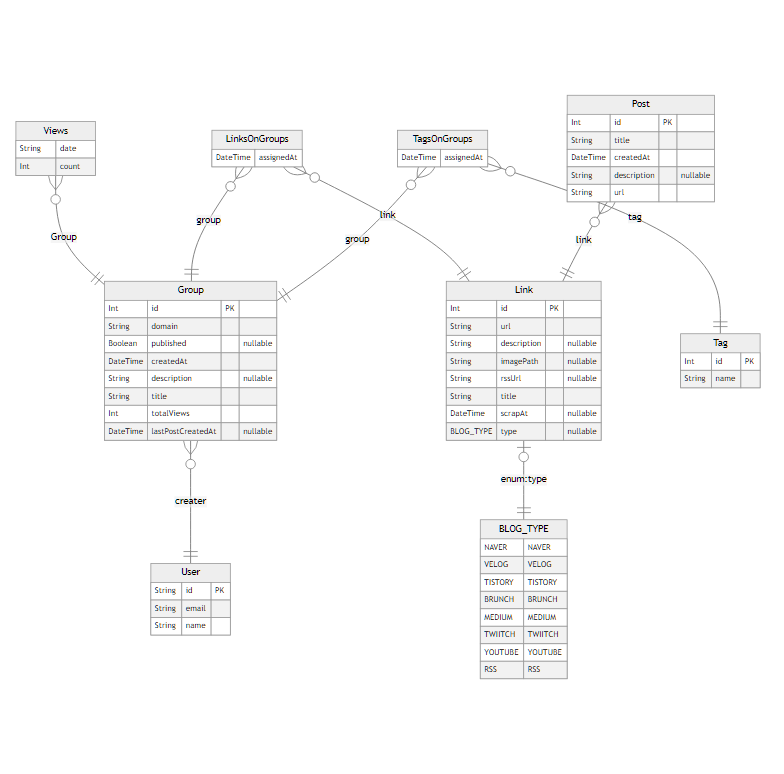
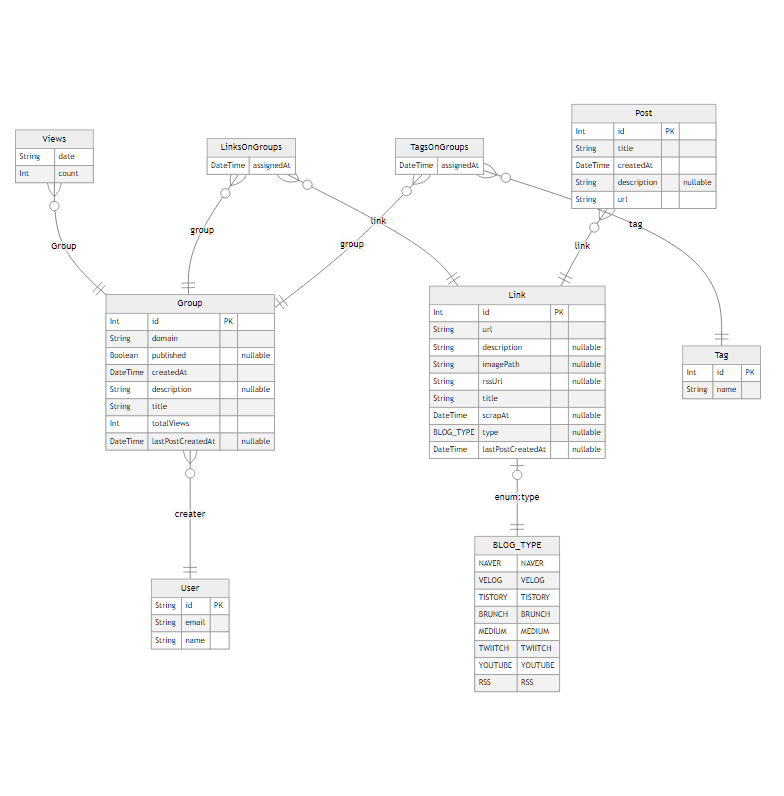
최근작성일시 그룹, 링크 각각 넣기

diff --git a/client/src/components/Menu/HeaderItem.vue b/client/src/components/Menu/HeaderItem.vue
@@ -1,11 +1,12 @@
 <script setup lang="ts">
-import { ref, toRaw } from 'vue';
+import { ref, toRefs } from 'vue';
 import { useRouter, useRoute } from 'vue-router';
 import { useSubpageStore } from '@/stores/subpage';
 import { usePostStore } from '@/stores/post';
 import { useGroupStore } from '@/stores/group';
 import { storeToRefs } from 'pinia';
 import { useQuasar } from 'quasar';
+import GroupAPI from '@/api/groupApi';
 
 const postStore = usePostStore();
 
@@ -36,7 +37,7 @@ interface HeaderOption {
 
 const props = defineProps<HeaderOption>();
 const rotate = ref(false);
-const { logo, editor, setting } = toRaw(props);
+const { logo, editor, setting } = toRefs(props);
 const $q = useQuasar();
 
 const reload = () => {
@@ -55,7 +56,7 @@ const _openSettingMain = () => {
   openSettingMain();
 };
 const scrapPostsAndAction = async () => {
-  const links = currentGroup.value.links;
+  const { id: groupId, links } = currentGroup.value;
   if (!links) return;
 
   if (scrapLoading.value) {
@@ -67,6 +68,7 @@ const scrapPostsAndAction = async () => {
 
   initPostData();
   await scrapPosts(links, false);
+  await GroupAPI.updateLastPostCreateAt(groupId);
   updateLinksMinScrapAt();
   $q.notify({ type: 'positive', message: 'Refresh Competed!' });
 

diff --git a/src/group/group.controller.ts b/src/group/group.controller.ts
@@ -100,33 +100,7 @@ export class GroupController {
   }
 
   @Patch('last-post-create-at')
-  async updateLastPostCreateAt(
-    @Body('linksDto')
-    updateLastPostCreateAt: { linkId?: number; lastPostCreatdeAt?: Date }[],
-  ) {
-    //링크별 최신포스트시간을 보내주면
-    //연결된 uniq 그룹을 뽑아서 그룹의 시간보다 크면 기록하고 아니면 마
-
-    const res = await this.groupService.groupsByLinkId(
-      updateLastPostCreateAt.map(({ linkId }) => ({ linkId })),
-    );
-
-    // res.forEach((r) => {
-    //   r.links.forEach((link) => {
-    //     console.log(link.linkId);
-    //     updateLastPostCreateAt.forEach((l) => {
-    //       if(link.linkId === l.linkId){
-
-    //       }
-    //     });
-    //   });
-    // });
-
-    console.log(
-      '@@@@ updateLastPostCreateAt',
-      { updateLastPostCreateAt, res },
-      res,
-    );
-    return;
+  async updateLastPostCreateAt(@Body('groupId') groupId: number) {
+    return this.groupService.update22(groupId);
   }
 }

diff --git a/src/rss/rss.controller.ts b/src/rss/rss.controller.ts
@@ -1,14 +1,20 @@
-import { Controller, Get, Query } from '@nestjs/common';
+import { Body, Controller, Get, Post, Query } from '@nestjs/common';
 import { RssQueryDto } from './dto/rss-query.dto';
 import { RssService } from './rss.service';
+import { LinkService } from '../link/link.service';
 
 @Controller('rss')
 export class RssController {
-  constructor(private readonly rssService: RssService) {}
+  constructor(
+    private readonly rssService: RssService,
+    private readonly linkService: LinkService,
+  ) {}
 
-  @Get()
-  findOne(@Query() queryDto: RssQueryDto) {
-    const { url, scrapAt } = queryDto;
-    return this.rssService.findOne(url, scrapAt);
+  @Post()
+  async findOne(@Body() queryDto: any) {
+    const { linkId, url, scrapAt } = queryDto;
+    const res = await this.rssService.findOne(url, scrapAt);
+    this.linkService.updateFlag(linkId, res.lastPostCreateAt);
+    return res;
   }
 }

diff --git a/client/src/api/rssApi.ts b/client/src/api/rssApi.ts
@@ -1,8 +1,6 @@
 import { Link, RssItem, ScrapItem, ScrapResult } from '../types/common';
 import axiosClient from './base';
 import PostAPI from './postApi';
-import LinkAPI from './linkApi';
-
 import { pipe } from '../util';
 
 export default {
@@ -14,12 +12,11 @@ export default {
     if (!scrapUrl) {
       throw Error('링크 유알엘이 유효하지 않습니다!');
     }
-    const res = await axiosClient.get('rss', { params: { url: scrapUrl, scrapAt: _link.scrapAt } });
+    const res = await axiosClient.post('rss', { linkId: _link.id, url: scrapUrl, scrapAt: _link.scrapAt });
     const _items = res.data.items || [];
     if (_items.length > 0) {
       await PostAPI.createPosts(_link.id, convertItem(_items, scrapUrl));
     }
-    await LinkAPI.updateScrapAt(_link.id);
     return { linkId: _link.id, lastPostCreateAt: res.data.lastPostCreateAt };
   },
 };

diff --git a/client/src/api/groupApi.ts b/client/src/api/groupApi.ts
@@ -1,4 +1,4 @@
-import { Group, Link, ScrapResult } from '../types/common';
+import { Group, Link } from '../types/common';
 import axiosClient, { useAxiosGet } from './base';
 import { AxiosError } from 'axios';
 
@@ -53,9 +53,10 @@ export default {
       throw new Error(message);
     }
   },
-  async updateLastPostCreateAt(linksDto: ScrapResult[]) {
+  async updateLastPostCreateAt(groupId?: number) {
+    if (!groupId) return;
     try {
-      await axiosClient.patch(`group/last-post-create-at`, { linksDto });
+      await axiosClient.patch(`group/last-post-create-at`, { groupId });
     } catch (axiosError) {
       const err = axiosError as AxiosError<{ res: { message: string } }>;
       const message = err.response?.data?.res?.message || err.message;

diff --git a/src/group/group.service.ts b/src/group/group.service.ts
@@ -136,4 +136,22 @@ export class GroupService {
       throw new ForbiddenException(e);
     }
   }
+
+  async update22(groupId: number) {
+    try {
+      const res: { max: Date }[] = await this.prisma.$queryRaw`
+         SELECT MAX("Link"."lastPostCreatedAt") FROM "LinksOnGroups"
+            INNER JOIN "Link" ON "LinksOnGroups"."linkId" = "Link"."id"
+            WHERE "groupId" = ${groupId}
+      `;
+      await this.prisma.group.update({
+        where: { id: groupId },
+        data: { lastPostCreatedAt: res[0].max },
+      });
+      return { ...res, success: true };
+    } catch (e) {
+      throw Error(e);
+    }
+  }
 }
+``;

diff --git a/client/src/components/Card/LinkCard.vue b/client/src/components/Card/LinkCard.vue
@@ -1,10 +1,10 @@
 <script setup lang="ts">
-import { toRaw } from 'vue';
+import { toRefs } from 'vue';
 import { Link } from '@/types/common';
 import LinkInfo from '../Info/LinkInfo.vue';
 
 const props = defineProps<{ link: Link; iconName: string }>();
-const { url, title, description } = toRaw(props.link);
+const { url, title, description } = toRefs(props.link);
 const emits = defineEmits<{ (eventName: 'clickIcon'): void }>();
 const emojiBundle = ['📕', '📊', '🔥', '🎯', '⚡', '🚀', '🏆', '📃', '💻', '📟', '📷', '🌍', '🌐'];
 const randomDesc = `Need a description like '${emojiBundle

diff --git a/src/rss/rss.module.ts b/src/rss/rss.module.ts
@@ -2,10 +2,12 @@ import { Module } from '@nestjs/common';
 import { RssService } from './rss.service';
 import { RssController } from './rss.controller';
 import { HttpModule } from '@nestjs/axios';
+import { LinkService } from '../link/link.service';
+import { PrismaModule } from 'src/prisma/prisma.module';
 
 @Module({
-  imports: [HttpModule],
+  imports: [HttpModule, PrismaModule],
   controllers: [RssController],
-  providers: [RssService],
+  providers: [RssService, LinkService],
 })
 export class RssModule {}

diff --git a/client/src/components/Setting/DataCard.vue b/client/src/components/Setting/DataCard.vue
@@ -1,11 +1,11 @@
 <script setup lang="ts">
-import { toRaw } from 'vue';
+import { toRefs } from 'vue';
 
 import { getImage } from '@/util/ImageUtil';
 import { StackJson } from '@/types/common';
 
 const props = defineProps<{ stackJson: StackJson }>();
-const { label, version, description, path, url, githubStar } = toRaw(props.stackJson);
+const { label, version, description, path, url, githubStar } = toRefs(props.stackJson);
 const openUrl = (url: string) => window.open(url, 'stack');
 </script>
 

diff --git a/client/src/components/Info/GroupInfo.vue b/client/src/components/Info/GroupInfo.vue
@@ -1,11 +1,11 @@
 <script setup lang="ts">
-import { toRaw } from 'vue';
+import { toRefs } from 'vue';
 import { Group } from '@/types/common';
 
 const props = defineProps<{ mode: 'HEADER' | 'LIST-ITEM'; groupData: Group }>();
 const isHeader = props.mode === 'HEADER';
 
-const { title, description, domain } = toRaw(props.groupData);
+const { title, description, domain } = toRefs(props.groupData);
 </script>
 
 <template>

diff --git a/client/src/components/Setting/SettingCard.vue b/client/src/components/Setting/SettingCard.vue
@@ -1,5 +1,5 @@
 <script setup lang="ts">
-import { toRaw } from 'vue';
+import { toRefs } from 'vue';
 
 interface SettingJson {
   icon: string;
@@ -7,7 +7,7 @@ interface SettingJson {
   clickEvent: () => void;
 }
 const props = defineProps<{ settingJson: SettingJson }>();
-const { icon, title, clickEvent } = toRaw(props.settingJson);
+const { icon, title, clickEvent } = toRefs(props.settingJson);
 </script>
 
 <template>

diff --git a/src/link/link.service.ts b/src/link/link.service.ts
@@ -16,6 +16,16 @@ export class LinkService {
     }
   }
 
+  async updateFlag(id: number, lastPostCreatedAt: Date) {
+    return await this.prisma.link.update({
+      data: {
+        scrapAt: new Date(),
+        lastPostCreatedAt,
+      },
+      where: { id },
+    });
+  }
+
   async count() {
     return await this.prisma.link.count();
   }
